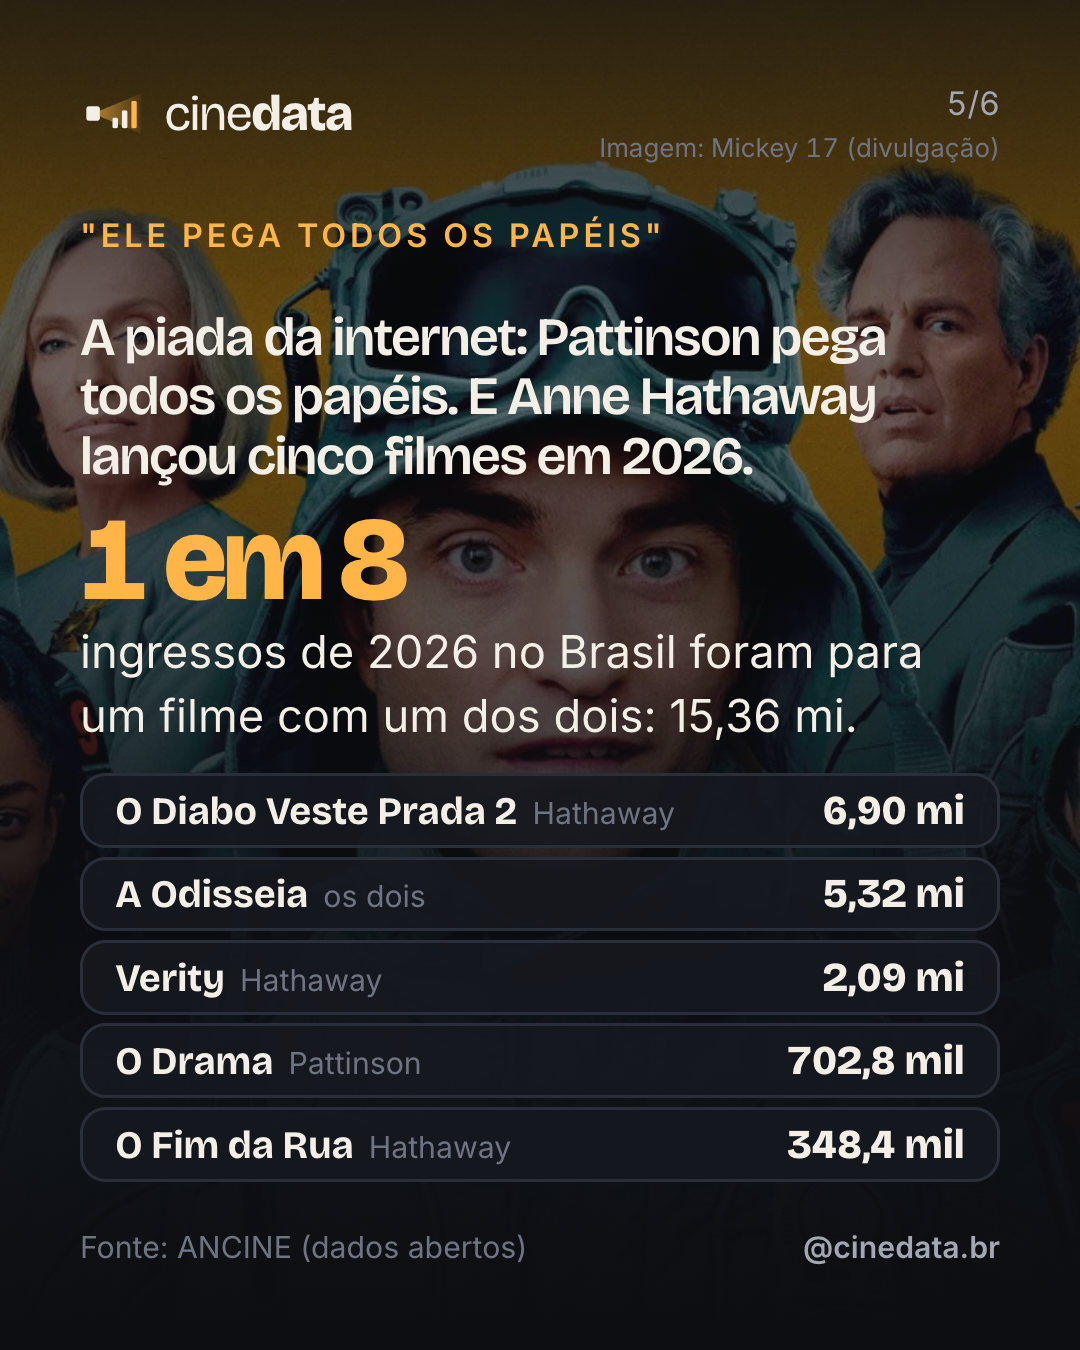
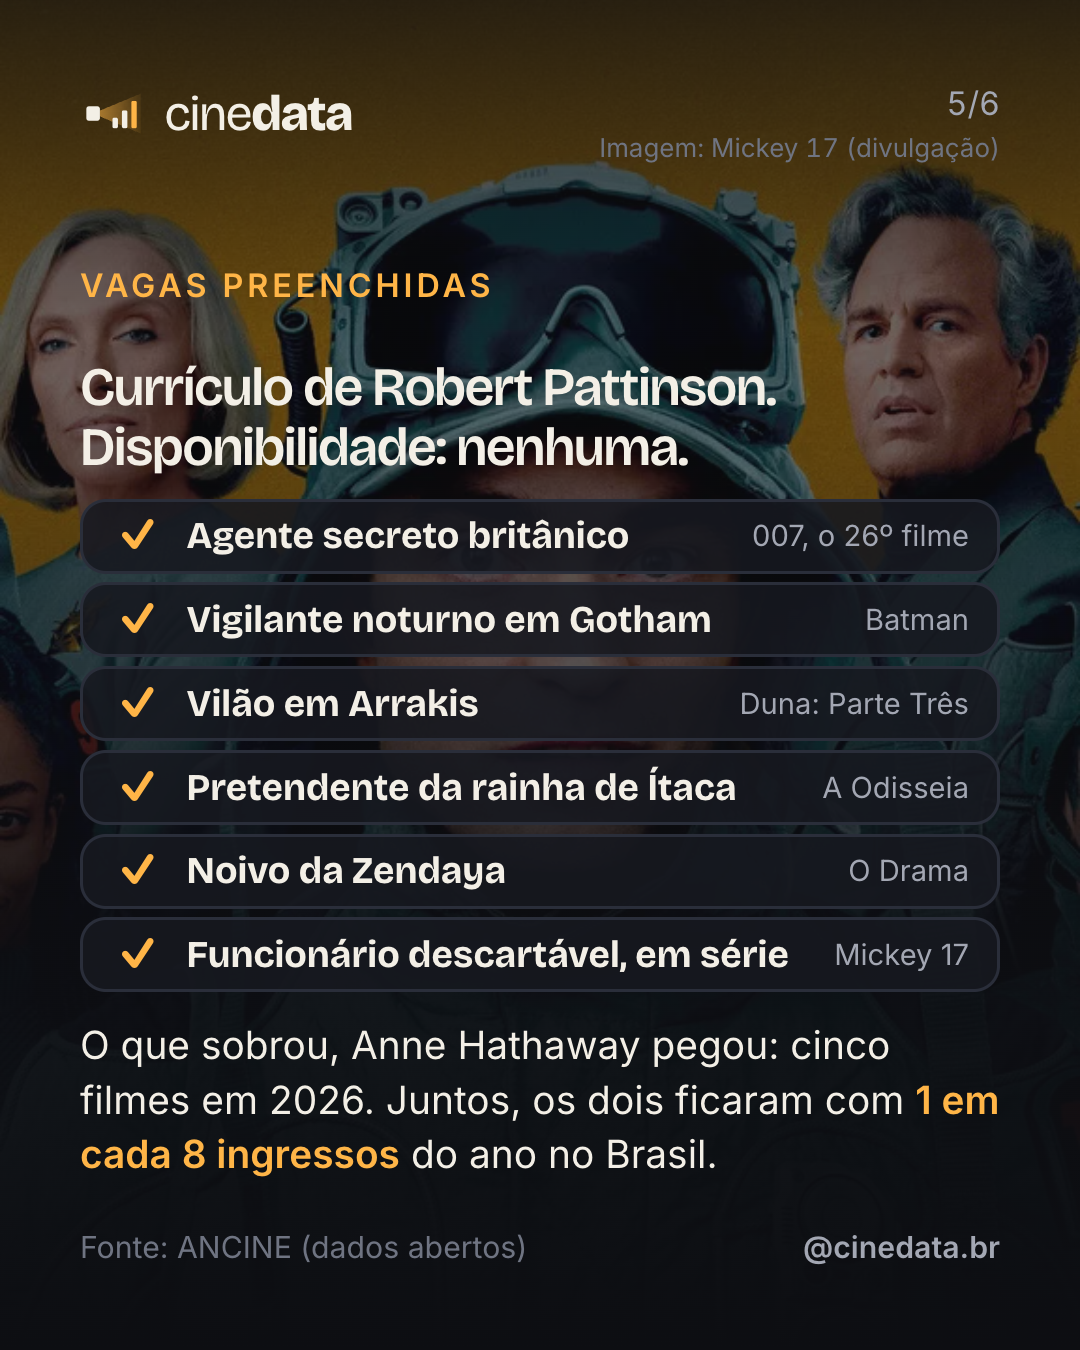
Notícia: Pattinson 007 com a sátira do currículo no lugar do meme

Changed region(s): [[0.0611, 0.1556, 0.9472, 0.8711]]

diff --git a/cinedata.front/src/app/features/marca/slides-noticia-pattinson-007.ts b/cinedata.front/src/app/features/marca/slides-noticia-pattinson-007.ts
@@ -37,6 +37,15 @@ const em2026 = [
   { titulo: 'O Fim da Rua', quem: 'Hathaway', publico: 348_373 },
 ];
 const total2026 = 121_280_537;
+/** A sátira do slide 5: papéis reais de Pattinson entre 2025 e 2026 (e o 007), escritos como vagas de emprego. */
+const vagas = [
+  { cargo: 'Agente secreto britânico', filme: '007, o 26º filme' },
+  { cargo: 'Vigilante noturno em Gotham', filme: 'Batman' },
+  { cargo: 'Vilão em Arrakis', filme: 'Duna: Parte Três' },
+  { cargo: 'Pretendente da rainha de Ítaca', filme: 'A Odisseia' },
+  { cargo: 'Noivo da Zendaya', filme: 'O Drama' },
+  { cargo: 'Funcionário descartável, em série', filme: 'Mickey 17' },
+];
 
 const umaCasa = new Intl.NumberFormat('pt-BR', { minimumFractionDigits: 1, maximumFractionDigits: 1 });
 const duasCasas = new Intl.NumberFormat('pt-BR', { minimumFractionDigits: 2, maximumFractionDigits: 2 });
@@ -122,18 +131,20 @@ const curto = (n: number) => (n >= 1e6 ? `${duasCasas.format(n / 1e6)} mi` : `${
         </div>
       </cd-slide>
 
-      <!-- 5. Ele está em todo filme -->
+      <!-- 5. Sátira: o currículo -->
       <cd-slide [numero]="5" [total]="6" [fundo]="imagens.clones" posicaoFundo="50% 30%" [escurecer]="true" credito="Imagem: Mickey 17 (divulgação)">
         <div class="base">
-          <span class="rotulo">"Ele pega todos os papéis"</span>
-          <p class="manchete pequena claro">A piada da internet: Pattinson pega todos os papéis. E Anne Hathaway lançou cinco filmes em 2026.</p>
-          <p class="numero um-em-oito">1 em 8</p>
-          <p class="texto claro">ingressos de 2026 no Brasil foram para um filme com um dos dois: {{ milhoes(soma2026) }} mi.</p>
-          <ul class="lista2026">
-            @for (f of em2026; track f.titulo) {
-              <li><span class="nome">{{ f.titulo }}<small>{{ f.quem }}</small></span><span class="valor">{{ curto(f.publico) }}</span></li>
+          <span class="rotulo">Vagas preenchidas</span>
+          <p class="manchete pequena claro">Currículo de Robert Pattinson. Disponibilidade: nenhuma.</p>
+          <ul class="vagas">
+            @for (v of vagas; track v.cargo) {
+              <li><span class="ok" aria-hidden="true">✓</span><span class="cargo">{{ v.cargo }}</span><small>{{ v.filme }}</small></li>
             }
           </ul>
+          <p class="texto claro sobra">
+            O que sobrou, Anne Hathaway pegou: cinco filmes em 2026. Juntos, os dois ficaram com
+            <strong>1 em cada 8 ingressos</strong> do ano no Brasil.
+          </p>
         </div>
       </cd-slide>
 
@@ -146,7 +157,7 @@ const curto = (n: number) => (n >= 1e6 ? `${duasCasas.format(n / 1e6)} mi` : `${
           <li><strong>Fev. 2028</strong><span>The Batman Parte II, adiado em julho</span></li>
           <li><strong>007</strong><span>o 26º Bond, ainda sem data</span></li>
         </ul>
-        <p class="pergunta">Pattinson é um bom 007? Quem você escolheria?</p>
+        <p class="pergunta">Pattinson é um bom 007? E qual vaga ele pega depois dessa?</p>
       </cd-slide>
     </div>
   `,
@@ -195,6 +206,14 @@ const curto = (n: number) => (n >= 1e6 ? `${duasCasas.format(n / 1e6)} mi` : `${
     .lista2026 .nome { font-size: 3.6cqw; }
     .lista2026 .valor { font-size: 3.8cqw; }
 
+    .vagas { list-style: none; margin: 2cqw 0 0; padding: 0; display: flex; flex-direction: column; gap: .8cqw; }
+    .vagas li { display: grid; grid-template-columns: 5cqw 1fr auto; align-items: center; gap: 2cqw; padding: .9cqw 2.6cqw; line-height: 1.15; border-radius: 2.4cqw; background: rgb(22 24 31 / .88); border: .3cqw solid var(--cd-linha); }
+    .vagas .ok { font-family: var(--cd-fonte-display); font-weight: 800; font-size: 4cqw; color: var(--cd-projetor); text-align: center; }
+    .vagas .cargo { font-family: var(--cd-fonte-display); font-weight: 700; font-size: 3.5cqw; color: var(--cd-tela); }
+    .vagas small { font-family: var(--cd-fonte-texto); font-weight: 400; font-size: 2.7cqw; color: var(--cd-tela-2); text-align: right; white-space: nowrap; }
+    .base > .texto.sobra { font-size: 3.6cqw; margin-top: 2.4cqw; text-wrap: pretty; }
+    .sobra strong { color: var(--cd-projetor); }
+
     .manchete.fecho { margin-top: 0; font-size: 6.4cqw; text-wrap: balance; }
     .agenda { list-style: none; margin: 4cqw 0 0; padding: 0; display: flex; flex-direction: column; gap: 1.8cqw; }
     .agenda li { display: grid; grid-template-columns: 26cqw 1fr; gap: 2.4cqw; align-items: baseline; padding: 2.4cqw 3.2cqw; border-radius: 3cqw; background: var(--cd-poltrona); border: .3cqw solid var(--cd-linha); }
@@ -215,6 +234,7 @@ export class SlidesNoticiaPattinson007 {
   protected readonly carreira = carreira;
   protected readonly bonds = bonds;
   protected readonly em2026 = em2026;
+  protected readonly vagas = vagas;
   protected readonly formatar = formatar;
   protected readonly curto = curto;
   protected readonly milhoes = milhoes;

diff --git a/docs/posts/noticia-pattinson-007/legenda.md b/docs/posts/noticia-pattinson-007/legenda.md
@@ -1,8 +1,8 @@
 # CineData | Notícia · Robert Pattinson é o novo 007
 
 A Amazon MGM anunciou em 16/11/2026 que Robert Pattinson vai viver James Bond no 26º filme da série, dirigido por Denis
-Villeneuve. O post mostra como ele chega nos cinemas do Brasil e brinca com a piada da internet de que ele "pega todos
-os papéis", lado a lado com Anne Hathaway, que lançou cinco filmes em 2026. Carrossel de 6 slides 1080×1350. Publicar
+Villeneuve. O post mostra como ele chega nos cinemas do Brasil e faz uma sátira: o "currículo" de Pattinson, com todos os papéis
+que ele pegou, e Anne Hathaway com o que sobrou (cinco filmes em 2026). Carrossel de 6 slides 1080×1350. Publicar
 na quarta, 25/11; o meme ainda está circulando.
 
 | Slide | Arquivo | Conteúdo |
@@ -11,8 +11,8 @@ na quarta, 25/11; o meme ainda está circulando.
 | 2 | `slide-02.png` | o anúncio: 7º ator na série oficial; 26º filme, sem título; Villeneuve, Steven Knight, Amy Pascal e David Heyman; sem data |
 | 3 | `slide-03.png` | os 10 filmes dele com mais público no Brasil desde 2009: a saga Crepúsculo no topo; fora dela, Batman (5,90 mi) |
 | 4 | `slide-04.png` | a régua do 007: Batman 2,3× Skyfall; os três 007 de Daniel Craig desde 2009 (2,55 / 2,10 / 1,09 mi) |
-| 5 | `slide-05.png` | a piada: "ele pega todos os papéis"; com Hathaway, 1 em cada 8 ingressos de 2026 (15,36 mi) |
-| 6 | `slide-06.png` | o que vem: Duna: Parte Três (17/12, como Scytale), The Batman Parte II (fev. 2028), o 26º Bond sem data; "Pattinson é um bom 007?" |
+| 5 | `slide-05.png` | sátira: "Vagas preenchidas", o currículo de Pattinson (007, Batman, vilão em Arrakis, pretendente da rainha de Ítaca, noivo da Zendaya, funcionário descartável em série); o que sobrou, Hathaway pegou; os dois com 1 em cada 8 ingressos de 2026 |
+| 6 | `slide-06.png` | o que vem: Duna: Parte Três (17/12, como Scytale), The Batman Parte II (fev. 2028), o 26º Bond sem data; "Pattinson é um bom 007? E qual vaga ele pega depois dessa?" |
 
 ```bash
 cd cinedata.front
@@ -21,7 +21,7 @@ node scripts/exportar-slides.mjs /marca/noticia-pattinson-007 ../docs/posts/noti
 
 ## Legenda
 
-Contagem: 1.056 caracteres (limite do Instagram: 2.200).
+Contagem: 1.111 caracteres (limite do Instagram: 2.200).
 
 ```text
 Robert Pattinson é o novo James Bond. 🍸🎬
@@ -30,11 +30,11 @@ A Amazon MGM anunciou em 16/11: ele será o 7º ator a viver o 007 na série ofi
 
 E nos cinemas do Brasil, como ele chega? Fora da saga Crepúsculo, o maior público dele aqui foi como Batman: 5,9 milhões de pessoas, em 2022. É mais que o dobro de qualquer 007 de Daniel Craig desde 2009: Skyfall fez 2,6 milhões.
 
-Depois do anúncio, a internet decidiu que Pattinson pega todos os papéis. Dá para juntar Anne Hathaway na piada, com cinco filmes lançados em 2026. Os dois juntos estão em A Odisseia, e os filmes de um ou de outro levaram 15,4 milhões de pessoas aos cinemas do Brasil este ano: 1 em cada 8 ingressos.
+Atualizamos o currículo dele. Vagas preenchidas: agente secreto britânico, vigilante noturno em Gotham, vilão em Arrakis (Duna: Parte Três, 17/12), pretendente da rainha de Ítaca, noivo da Zendaya e funcionário descartável, em série. Disponibilidade: nenhuma.
 
-E ainda vem mais: Duna: Parte Três estreia em 17/12, com Pattinson como o vilão Scytale.
+O que sobrou, Anne Hathaway pegou: cinco filmes em 2026. Os filmes de um ou de outro levaram 15,4 milhões de pessoas aos cinemas do Brasil este ano, 1 em cada 8 ingressos.
 
-Pattinson é um bom 007? Quem você escolheria? 👇
+Pattinson é um bom 007? E qual vaga ele pega depois dessa? 👇
 A matéria completa está no link da bio.
 
 Fonte: ANCINE (dados abertos). Imagens: TMDB/divulgação.
@@ -87,7 +87,7 @@ select sum(publico) from sessoes where data_exibicao between '2026-01-01' and '2
 | --- | --- |
 | Anúncio em 16/11/2026 pela Amazon MGM Studios; direção de Denis Villeneuve; roteiro de Steven Knight; produção de Amy Pascal e David Heyman | [Amazon (16/11/2026)](https://www.aboutamazon.com/news/entertainment/james-bond-robert-pattinson-cast-amazon-mgm-film), [TheWrap (16/11/2026)](https://www.thewrap.com/creative-content/movies/robert-pattinson-james-bond-actor/), [Omelete (16/11/2026)](https://www.omelete.com.br/filmes/007-robert-pattinson-e-confirmado-como-novo-james-bond), [Variety](https://variety.com/2026/film/global/robert-pattinson-new-james-bond-007-1236946655/) |
 | 7º ator na série oficial (Eon); 26º filme, sem título; sem data de estreia | [Wikipedia: Robert Pattinson](https://en.wikipedia.org/wiki/Robert_Pattinson), [Time Out (16/11/2026)](https://www.timeout.com/news/its-official-robert-pattinson-is-the-new-james-bond-111626), [Showmetech (16/11/2026)](https://showmetech.com.br/robert-pattinson-novo-james-bond/) |
-| A piada "Robert Pattinson pega todos os papéis/empregos", depois do anúncio | [Know Your Meme (18/11/2026)](https://knowyourmeme.com/memes/robert-pattinson-casting-announcement-parodies-robert-pattinson-taking-jobs), [Khaleej Times (18/11/2026)](https://www.khaleejtimes.com/entertainment/robert-pattinson-james-bond-casting-viral-memes) |
+| Os papéis da sátira: Mickey Barnes (Mickey 17, o funcionário "descartável" que é recriado), Charlie, noivo de Emma/Zendaya (O Drama), Antínoo, pretendente de Penélope (A Odisseia), Scytale (Duna: Parte Três) | [Wikipedia: filmografia de Robert Pattinson](https://en.wikipedia.org/wiki/Robert_Pattinson_filmography), [Wikipedia: The Drama](https://en.wikipedia.org/wiki/The_Drama_(film)), [Wikipedia: The Odyssey (2026)](https://en.wikipedia.org/wiki/The_Odyssey_(2026_film)), Nerdist e TheWrap (Scytale) |
 | Anne Hathaway com cinco filmes em 2026 (Mother Mary, O Diabo Veste Prada 2, A Odisseia, O Fim da Rua, Verity) | [Rolling Stone Brasil (14/04/2026)](https://rollingstone.com.br/cinema/os-5-filmes-estrelados-por-anne-hathaway-que-estreiam-em-2026/), [Exame (10/08/2026)](https://exame.com/pop/cinco-filmes-e-um-bebe-por-que-2026-e-o-ano-de-anne-hathaway/) |
 | Pattinson e Hathaway juntos só em A Odisseia (Antínoo e Penélope) | [Wikipedia: The Odyssey (2026)](https://en.wikipedia.org/wiki/The_Odyssey_(2026_film)), Exame (acima) |
 | Pattinson em O Drama, com Zendaya | [Wikipedia: The Drama](https://en.wikipedia.org/wiki/The_Drama_(film)), [Ingresso.com](https://www.ingresso.com/noticias/filme-the-drama-ganha-data-de-estreia-no-brasil) |
@@ -95,11 +95,11 @@ select sum(publico) from sessoes where data_exibicao between '2026-01-01' and '2
 | The Batman Parte II adiado para 18/02/2028 | [Variety (07/2026)](https://au.variety.com/2026/film/news/the-batman-2-release-date-2028-first-footage-robert-pattinson-38605/), TheWrap (07/2026) |
 
 Ficaram de fora: "8º ator" (só contando David Niven, de 1967, fora da série oficial); 2028 como ano do Bond (projeção
-da imprensa); a comparação com Hathaway dentro do meme (nenhuma fonte liga as duas coisas: o post junta os dois por
-conta própria e diz isso como "dá para juntar Anne Hathaway na piada").
+da imprensa); o meme da internet ("Pattinson pega todos os empregos"): a pedido do usuário, o post faz a própria
+sátira em vez de citar a piada. A sátira só usa papéis reais, conferidos.
 
 ## Imagens (TMDB)
 
 - Capa: O Drama (1325734), backdrop `vc7TeZyKhBeVA4YI3z1KAeIXqGV.jpg` (Pattinson de smoking).
 - Slide 4: Batman (414906), backdrop `IYUD7rAIXzBM91TT3Z5fILUS7n.jpg`.
-- Slide 5: Mickey 17 (696506), backdrop `9PRKAdrDvAdCfg3EcApLTfzGsEt.jpg` (os clones de Mickey).
+- Slide 5: Mickey 17 (696506), backdrop `9PRKAdrDvAdCfg3EcApLTfzGsEt.jpg` (Mickey e o elenco).

diff --git a/cinedata.front/conteudo/materias/robert-pattinson-novo-007-numeros-no-brasil.md b/cinedata.front/conteudo/materias/robert-pattinson-novo-007-numeros-no-brasil.md
@@ -21,8 +21,6 @@ fontes:
     url: https://www.omelete.com.br/filmes/007-robert-pattinson-e-confirmado-como-novo-james-bond
   - titulo: "TheWrap: Robert Pattinson Is the New James Bond (16/11/2026)"
     url: https://www.thewrap.com/creative-content/movies/robert-pattinson-james-bond-actor/
-  - titulo: "Know Your Meme: Robert Pattinson Casting Announcement Parodies (18/11/2026)"
-    url: https://knowyourmeme.com/memes/robert-pattinson-casting-announcement-parodies-robert-pattinson-taking-jobs
   - titulo: "Exame: Cinco filmes e um bebê, por que 2026 é o ano de Anne Hathaway (10/08/2026)"
     url: https://exame.com/pop/cinco-filmes-e-um-bebe-por-que-2026-e-o-ano-de-anne-hathaway/
 ---
@@ -59,12 +57,15 @@ Fora da saga Crepúsculo, o maior público dele no Brasil foi como **Batman**: 5
 
 Batman levou **2,3 vezes** o público de Skyfall, o 007 mais visto no Brasil desde 2009.
 
-## "Ele pega todos os papéis"
+## Vagas preenchidas
 
-Depois do anúncio, a internet encheu de anúncios falsos de elenco com Pattinson escalado para qualquer papel ou
-emprego. A piada fica ainda melhor ao lado de **Anne Hathaway**, que lançou cinco filmes em 2026. Os dois estão juntos
-em *A Odisseia*, de Christopher Nolan, e os filmes de um ou de outro levaram **15,4 milhões de pessoas** aos cinemas do
-Brasil em 2026: **1 em cada 8 ingressos** do ano.
+Atualizamos o currículo de Robert Pattinson. Vagas preenchidas desde 2025: agente secreto britânico (007), vigilante
+noturno em Gotham (Batman), vilão em Arrakis (*Duna: Parte Três*), pretendente da rainha de Ítaca (*A Odisseia*), noivo
+da Zendaya (*O Drama*) e funcionário descartável, em série (*Mickey 17*). Disponibilidade: nenhuma.
+
+O que sobrou, **Anne Hathaway** pegou: cinco filmes em 2026. Os dois estão juntos em *A Odisseia*, de Christopher
+Nolan, e os filmes de um ou de outro levaram **15,4 milhões de pessoas** aos cinemas do Brasil em 2026: **1 em cada 8
+ingressos** do ano.
 
 | Filme de 2026 | Com | Público |
 | --- | --- | --- |
